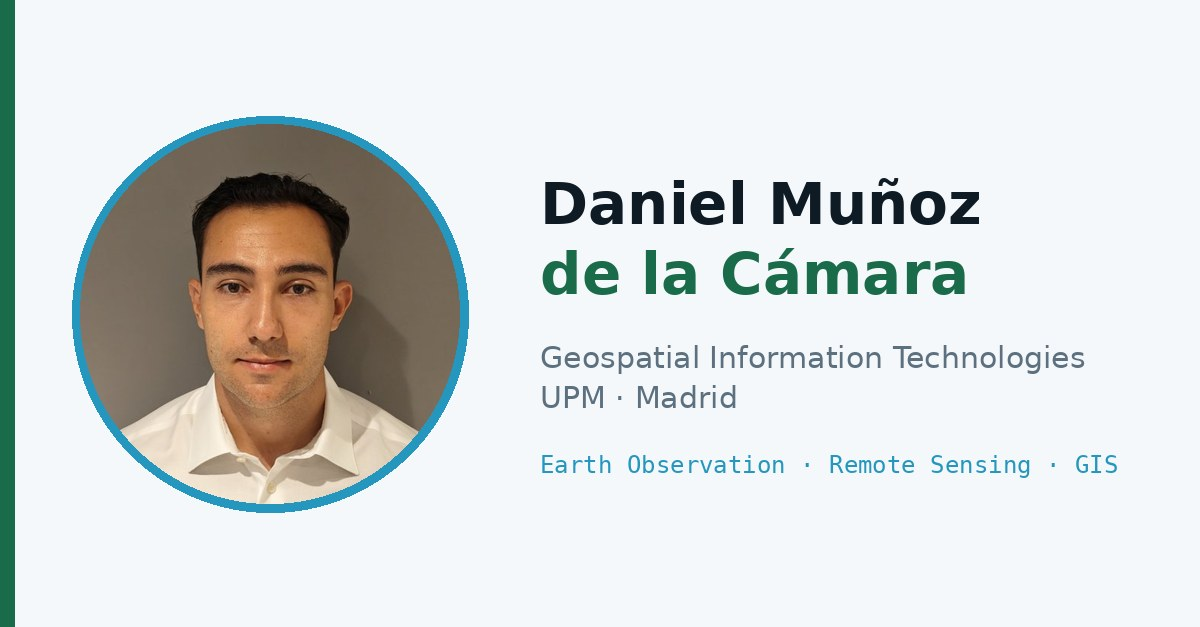
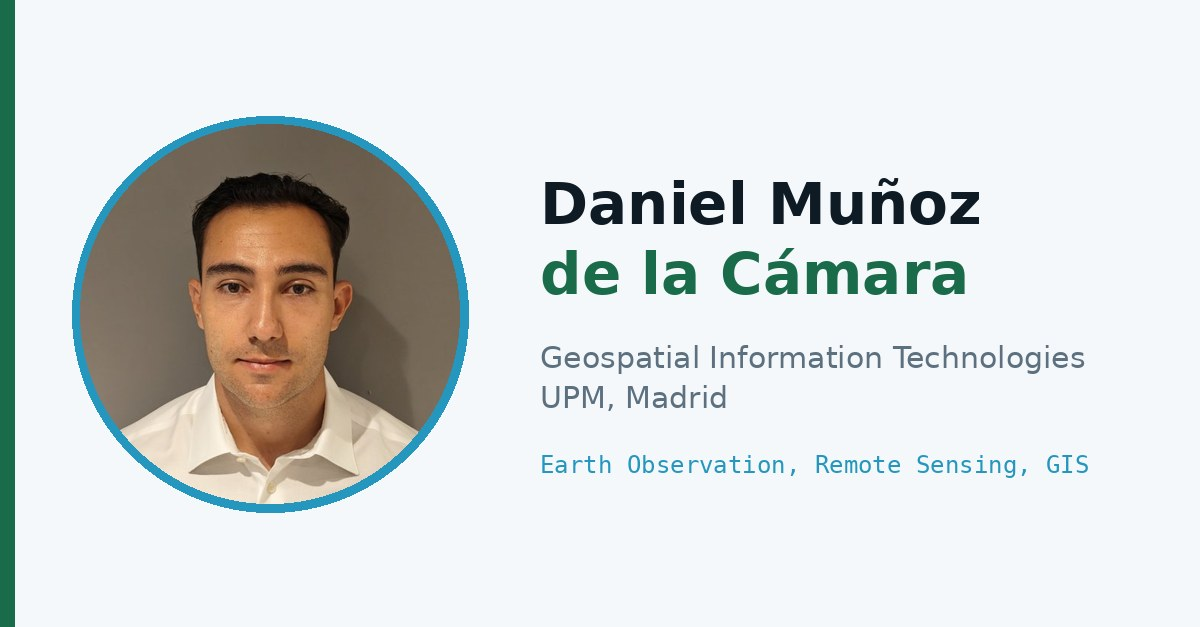
Style

Changed region(s): [[0.6783, 0.7273, 0.9558, 0.7576], [0.5242, 0.6061, 0.6167, 0.6667]]

diff --git a/index.html b/index.html
@@ -5,13 +5,13 @@
 <meta name="viewport" content="width=device-width, initial-scale=1.0">
 <meta name="description" content="CV de Daniel Muñoz de la Cámara, estudiante de Tecnologías de la Información Geoespacial (UPM). Teledetección, SIG y Earth Observation.">
 <meta property="og:type" content="website">
-<meta property="og:title" content="Daniel Muñoz de la Cámara — CV">
+<meta property="og:title" content="Daniel Muñoz de la Cámara - CV">
 <meta property="og:description" content="Estudiante de Tecnologías de la Información Geoespacial (UPM). Teledetección, SIG y Earth Observation.">
 <meta property="og:image" content="https://daniel-munoz-dlc.github.io/preview.jpg">
 <meta property="og:image:width" content="1200">
 <meta property="og:image:height" content="627">
 <meta property="og:url" content="https://daniel-munoz-dlc.github.io/">
-<title>Daniel Muñoz de la Cámara — Geospatial Engineer</title>
+<title>Daniel Muñoz de la Cámara - Geospatial Engineer</title>
 <link href="https://fonts.googleapis.com/css2?family=Space+Grotesk:wght@300;400;500;600;700&family=Space+Mono:wght@400;700&display=swap" rel="stylesheet">
 <style>
   *, *::before, *::after { box-sizing: border-box; margin: 0; padding: 0; }
@@ -20,7 +20,7 @@
     --ink:      #0e1a24;
     --muted:    #5c7080;
     --faint:    #e8eef3;
-    --accent:   #1a6b4a;   /* verde bosque — connota datos medioambientales */
+    --accent:   #1a6b4a;   /* verde bosque - connota datos medioambientales */
     --accent2:  #2596be;   /* azul satélite */
     --surface:  #f5f8fa;
     --white:    #ffffff;
@@ -157,7 +157,7 @@
   }
   .btn-outline:hover { background: var(--ink); color: var(--white); }
 
-  /* Hero visual — mapa/satélite abstracto */
+  /* Hero visual - mapa/satélite abstracto */
   .hero-visual {
     display: flex; align-items: center; justify-content: center;
   }
@@ -443,8 +443,8 @@
         <span class="tag">Earth Observation</span>
         <span class="tag">Remote Sensing</span>
         <span class="tag">GIS</span>
-        <span class="tag">Python · R</span>
-        <span class="tag">Sentinel · Landsat</span>
+        <span class="tag">Python, R</span>
+        <span class="tag">Sentinel, Landsat</span>
       </div>
       <div class="hero-cta">
         <a href="mailto:daniel.munoz@alumnos.upm.es" class="btn btn-primary"><span data-en="Contact me">Contactar</span></a>
@@ -540,7 +540,7 @@
 
       <div class="project-card">
         <div class="project-top">
-          <h3><span data-en="Tourism web app — Castilla y León">Aplicación web turística — Castilla y León</span></h3>
+          <h3><span data-en="Tourism web app - Castilla y León">Aplicación web turística - Castilla y León</span></h3>
           <span class="project-status status-done"><span data-en="Completed">Finalizado</span></span>
         </div>
         <p><span data-en="Development and defence of a geospatial tourism web application for Castilla y León, as part of the Geospatial Web Application Development course.">Desarrollo y defensa de una aplicación web geoespacial para turismo en Castilla y León en el marco de la asignatura de Desarrollo de Aplicaciones Web Geoespaciales.</span></p>
@@ -562,11 +562,11 @@
     </div>
 
     <div class="edu-entry">
-      <div class="edu-year"><span data-en="2022 — present">2022 — act.</span></div>
+      <div class="edu-year"><span data-en="2022 - present">2022 - act.</span></div>
       <div>
         <h3><span data-en="BSc in Geospatial Information Technologies">Grado en Tecnologías de la Información Geoespacial</span></h3>
-        <p><span data-en="School of Surveying, Geodesy and Cartography Engineering — Universidad Politécnica de Madrid (UPM)">ETSI Topografía, Geodesia y Cartografía — Universidad Politécnica de Madrid (UPM)</span></p>
-        <p style="margin-top:0.5rem; font-size:0.85rem; color:var(--muted);"><span data-en="Key courses: Applied Remote Sensing · Time Series Analysis · Thematic Cartography · Geospatial Web Application Development · Spatial Databases">Asignaturas clave: Teledetección Aplicada · Análisis de Series Temporales · Cartografía Temática · Desarrollo de Aplicaciones Web Geoespaciales · Bases de Datos Espaciales</span></p>
+        <p><span data-en="School of Surveying, Geodesy and Cartography Engineering - Universidad Politécnica de Madrid (UPM)">ETSI Topografía, Geodesia y Cartografía - Universidad Politécnica de Madrid (UPM)</span></p>
+        <p style="margin-top:0.5rem; font-size:0.85rem; color:var(--muted);"><span data-en="Key courses: Applied Remote Sensing, Time Series Analysis, Thematic Cartography, Geospatial Web Application Development, Spatial Databases">Asignaturas clave: Teledetección Aplicada, Análisis de Series Temporales, Cartografía Temática, Desarrollo de Aplicaciones Web Geoespaciales, Bases de Datos Espaciales</span></p>
       </div>
     </div>
 
@@ -580,10 +580,10 @@
     </div>
 
     <div class="exp-entry">
-      <div class="exp-period"><span data-en="2021 — present">2021 — act.</span></div>
+      <div class="exp-period"><span data-en="2021 - present">2021 - act.</span></div>
       <div>
         <h3><span data-en="Waiter and lifeguard">Camarero y socorrista</span></h3>
-        <p class="exp-company"><span data-en="Jowke · Madrid · Weekends">Jowke · Madrid · Fines de semana</span></p>
+        <p class="exp-company"><span data-en="Jowke, Madrid, Weekends">Jowke, Madrid, Fines de semana</span></p>
         <p><span data-en="Customer service in a high-demand environment for over four years at the same company. The company has also relied on me as a lifeguard on 5 occasions, taking responsibility for guest safety.">Atención al cliente en entorno de alta demanda durante más de cuatro años en la misma empresa. Además, la empresa ha contado conmigo como socorrista en 5 ocasiones, asumiendo la responsabilidad de la seguridad de los usuarios.</span></p>
         <p><span data-en="Teamwork, time management, communication under pressure and quick response to unexpected situations.">Trabajo en equipo, gestión del tiempo, comunicación bajo presión y capacidad de respuesta ante imprevistos.</span></p>
       </div>
@@ -604,7 +604,7 @@
       </div>
       <div class="lang-card">
         <h3><span data-en="English">Inglés</span></h3>
-        <div class="lang-level"><span data-en="B1 certified · B2 speaking">B1 oficial · B2 oral</span></div>
+        <div class="lang-level"><span data-en="B1 certified, B2 speaking">B1 oficial, B2 oral</span></div>
         <div class="lang-note">173 pts speaking</div>
       </div>
     </div>
@@ -637,7 +637,7 @@
 </div>
 
 <footer>
-  <div class="page">Daniel Muñoz de la Cámara · Geospatial Engineer · Madrid · 2026</div>
+  <div class="page">Daniel Muñoz de la Cámara, Geospatial Engineer, Madrid, 2026</div>
 </footer>
 
 <script>
